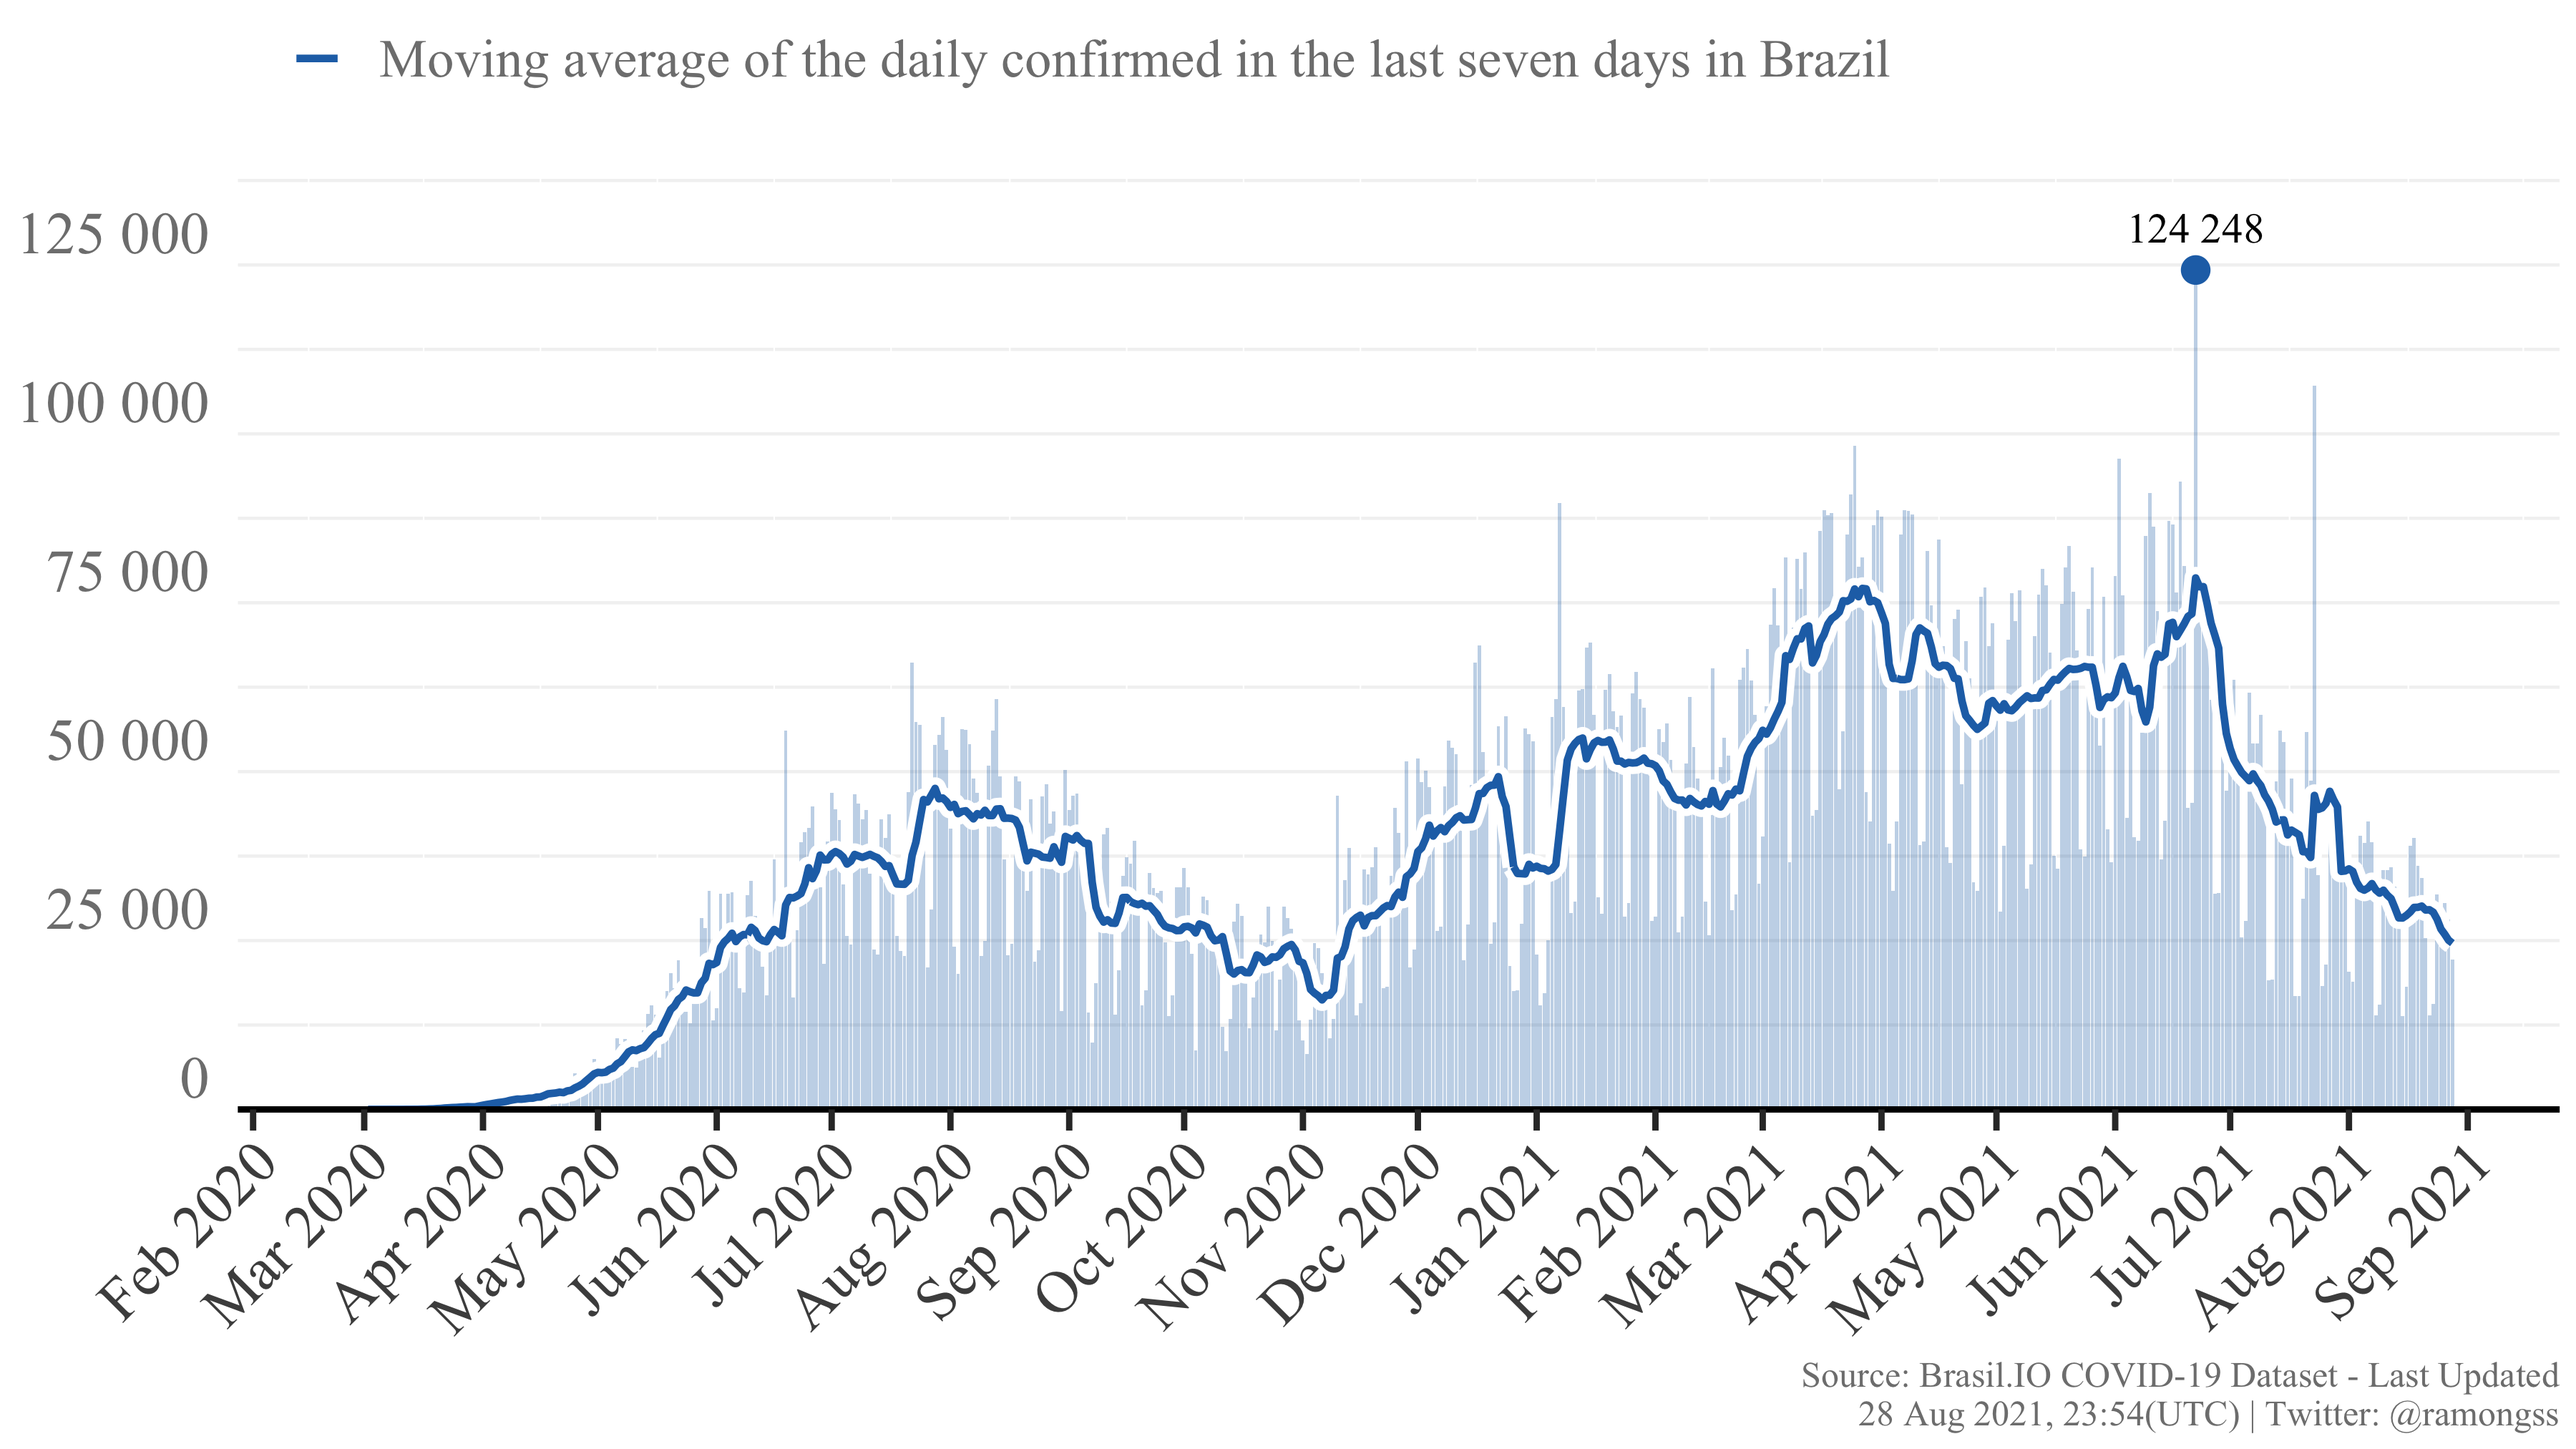
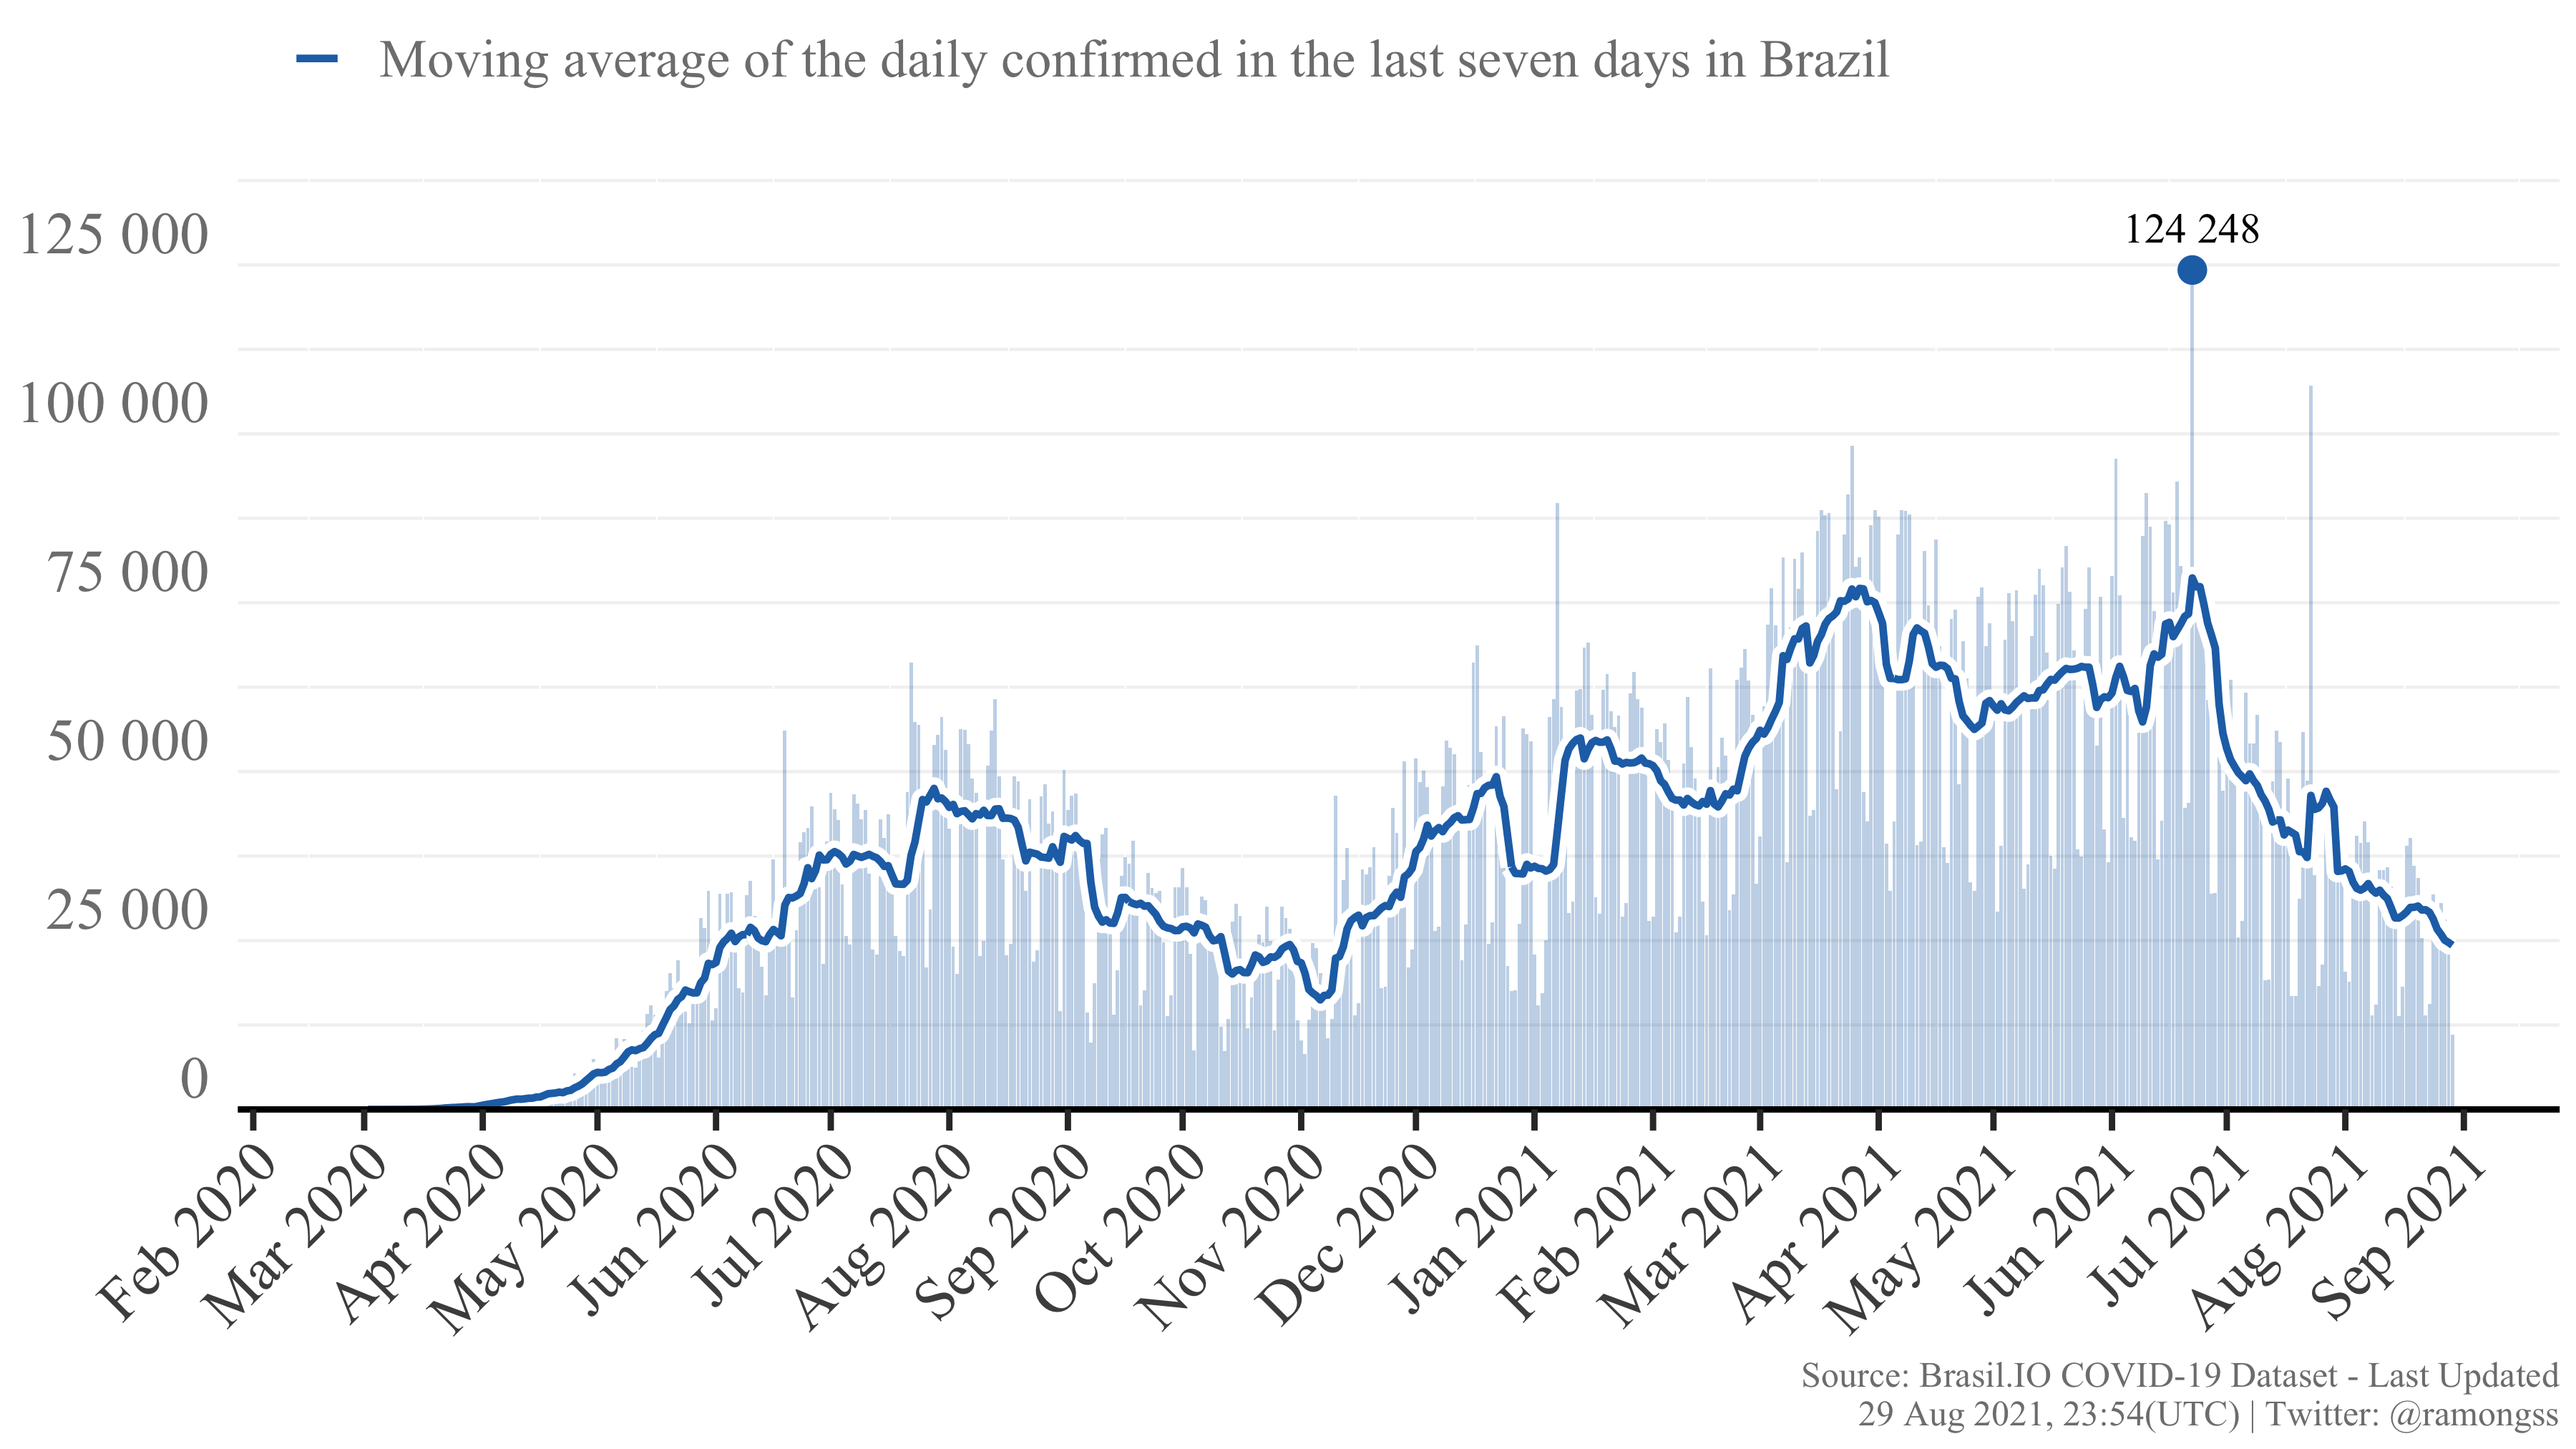
Re-build README.Rmd

diff --git a/README.md b/README.md
@@ -27,8 +27,8 @@ download_brasilio_table <- function(dataset = "covid19", table_name){
 
 ## COVID-19 Confirmed cases
 
-Currently, Brazil has a total of **20,733,533** confirmed cases at **28
-Aug, 2021**, with **22,194** new confirmed cases. The daily maximum
+Currently, Brazil has a total of **20,745,334** confirmed cases at **29
+Aug, 2021**, with **11,048** new confirmed cases. The daily maximum
 incidence was **124,248** confirmed cases at **22 Jun, 2021**. Here
 follows the Figure showing the confirmed case incidence as the bars, and
 the line as the moving average of the last 7 days.
@@ -37,8 +37,8 @@ the line as the moving average of the last 7 days.
 
 ## COVID-19 Deaths
 
-Currently, Brazil has a total of **579,271** deaths at **28 Aug, 2021**,
-with **613** new deaths. The daily maximum deaths incidence was
+Currently, Brazil has a total of **579,549** deaths at **29 Aug, 2021**,
+with **263** new deaths. The daily maximum deaths incidence was
 **4,148** deaths at **08 Apr, 2021**. Here follows the Figure showing
 the deaths incidence as the bars, and the line as the moving average of
 the last 7 days.
@@ -49,4 +49,4 @@ the last 7 days.
 
 This page is daily updated automatically using Github Actions.
 
-*Last update: 28 Aug 2021, 23:54 (UTC).*
+*Last update: 29 Aug 2021, 23:54 (UTC).*
